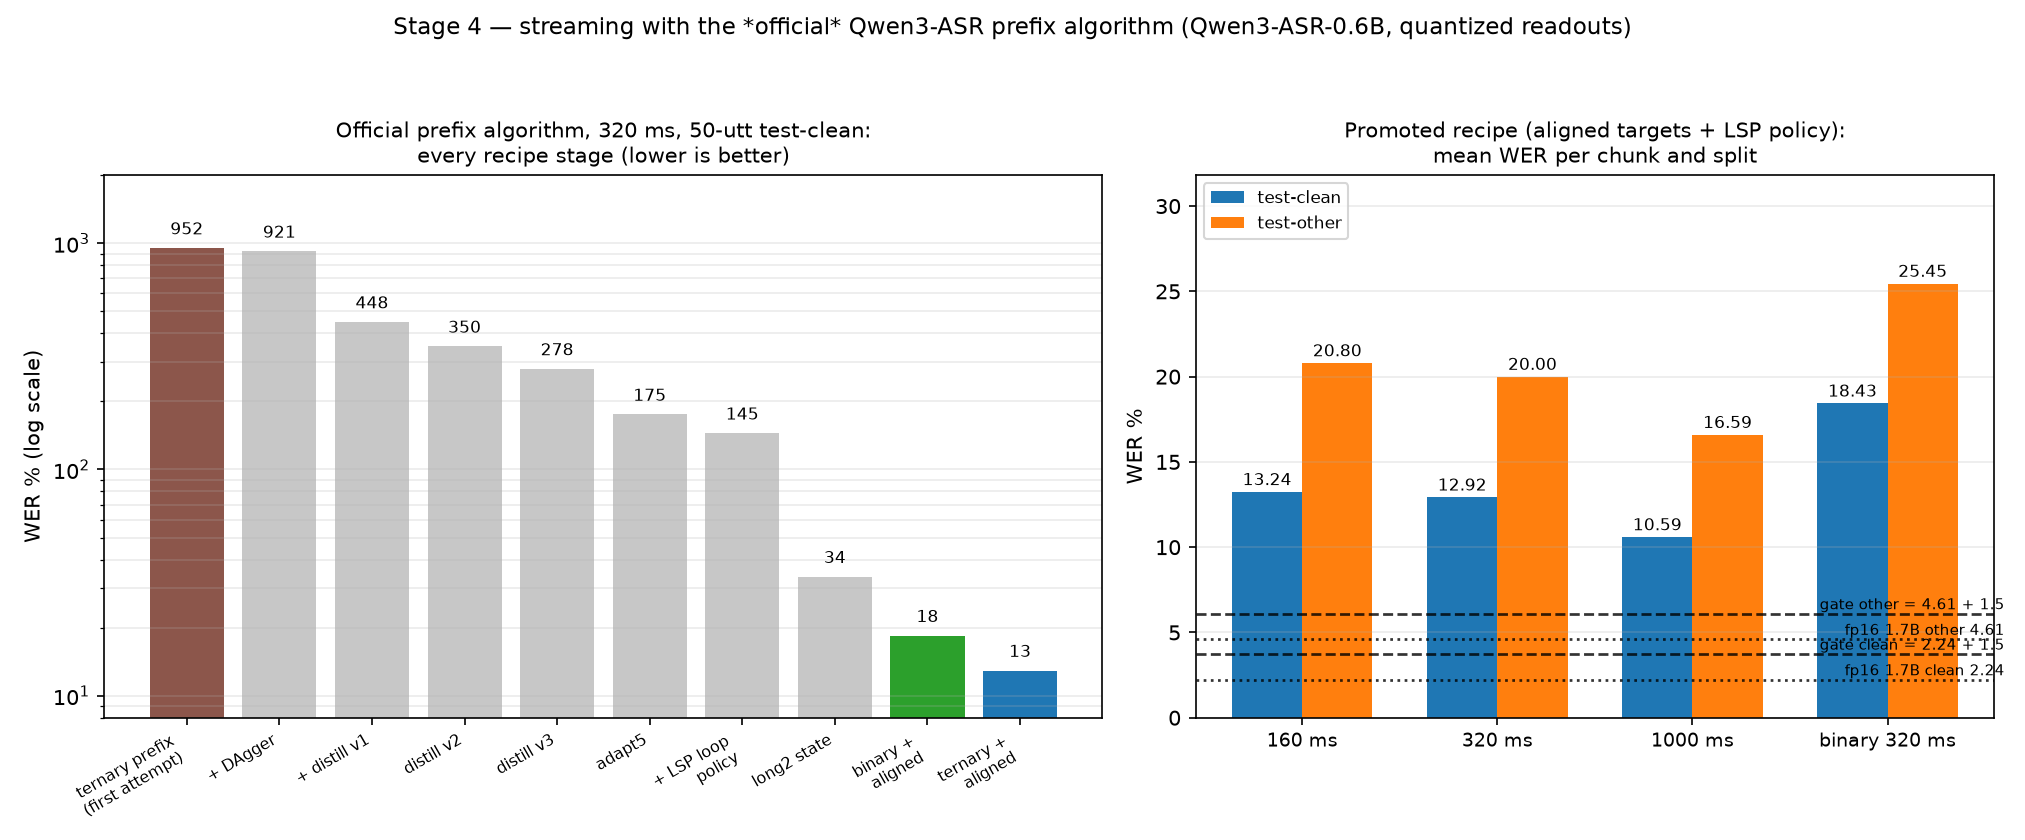
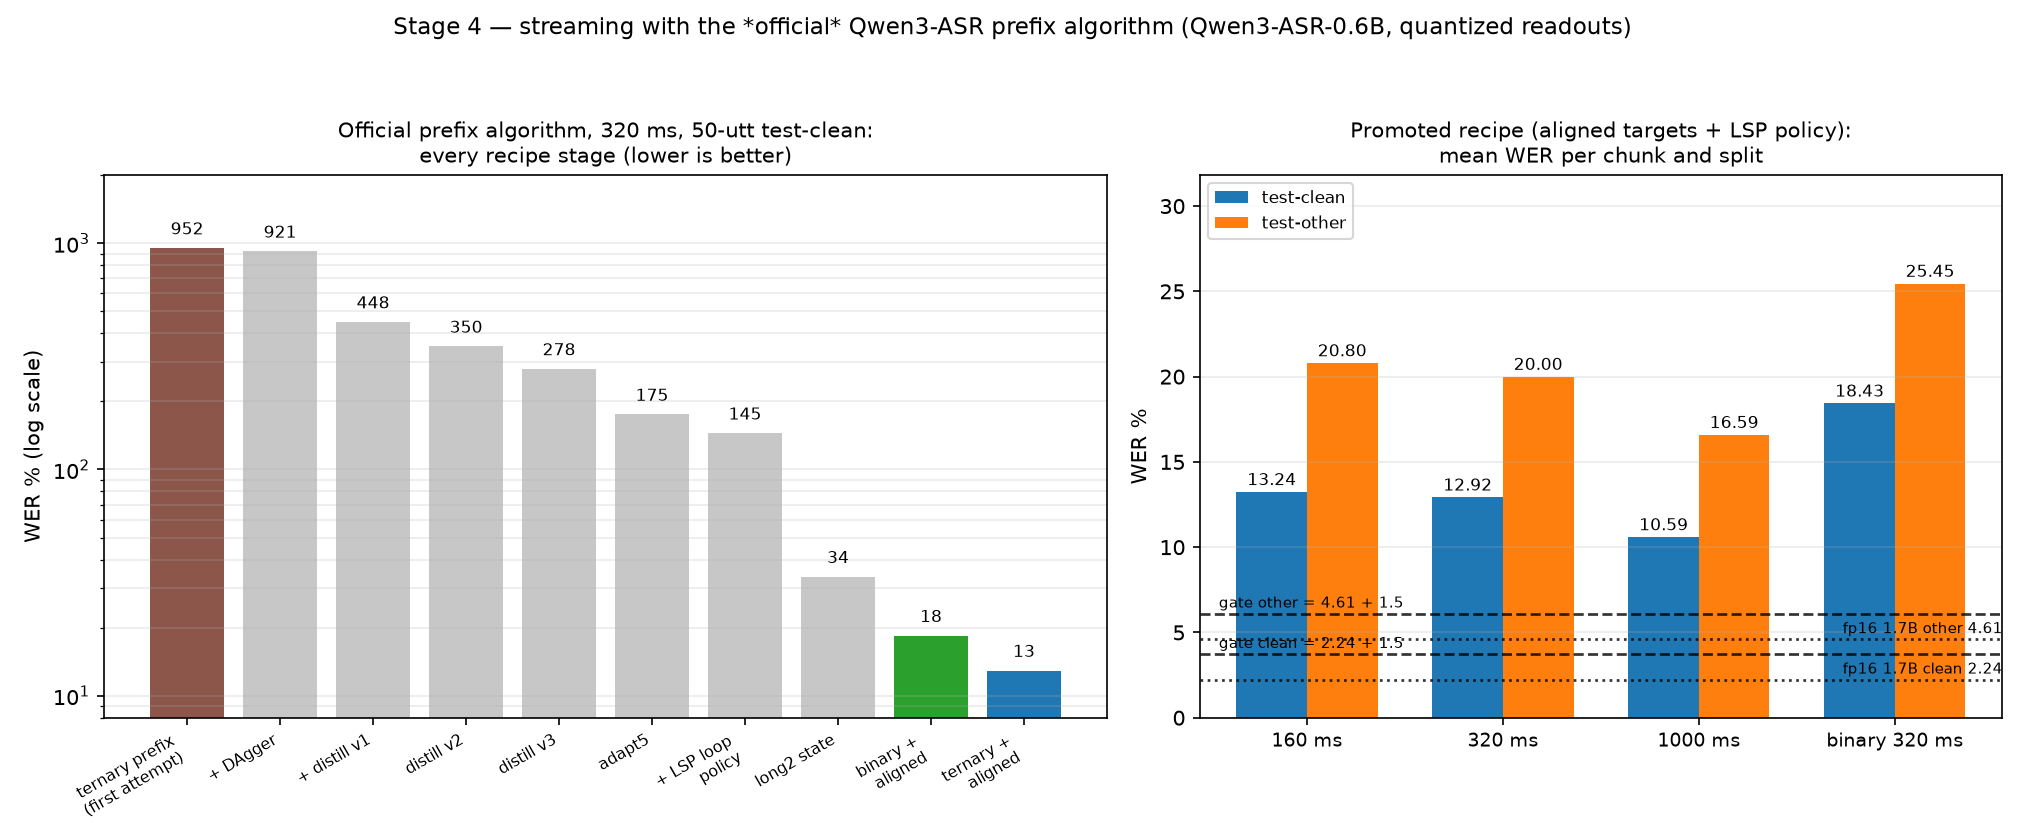
fix(plots): stagger the streaming figure's reference-line labels to avoid a collision

diff --git a/scripts/make_plots.py b/scripts/make_plots.py
@@ -345,11 +345,16 @@ def fig_streaming_results() -> dict:
         for bar in bars:
             ax2.text(bar.get_x() + bar.get_width() / 2, bar.get_height() + 0.4,
                      f"{bar.get_height():.2f}", ha="center", fontsize=8)
-    for y, label in ((2.24, "fp16 1.7B clean 2.24"), (4.61, "fp16 1.7B other 4.61"),
-                     (3.74, "gate clean = 2.24 + 1.5"), (6.11, "gate other = 4.61 + 1.5")):
+    for y, label, side in ((2.24, "fp16 1.7B clean 2.24", "right"),
+                           (4.61, "fp16 1.7B other 4.61", "right"),
+                           (3.74, "gate clean = 2.24 + 1.5", "left"),
+                           (6.11, "gate other = 4.61 + 1.5", "left")):
         ax2.axhline(y, color="black", linestyle=":" if "fp16" in label else "--",
                     linewidth=1.3, alpha=0.8)
-        ax2.text(len(groups) - 0.4, y + 0.25, label, fontsize=7, ha="right")
+        if side == "right":
+            ax2.text(len(groups) - 0.45, y + 0.35, label, fontsize=7, ha="right")
+        else:
+            ax2.text(-0.45, y + 0.35, label, fontsize=7, ha="left")
     ax2.set_xticks(list(x))
     ax2.set_xticklabels(groups, fontsize=9)
     ax2.set_ylabel("WER %")
